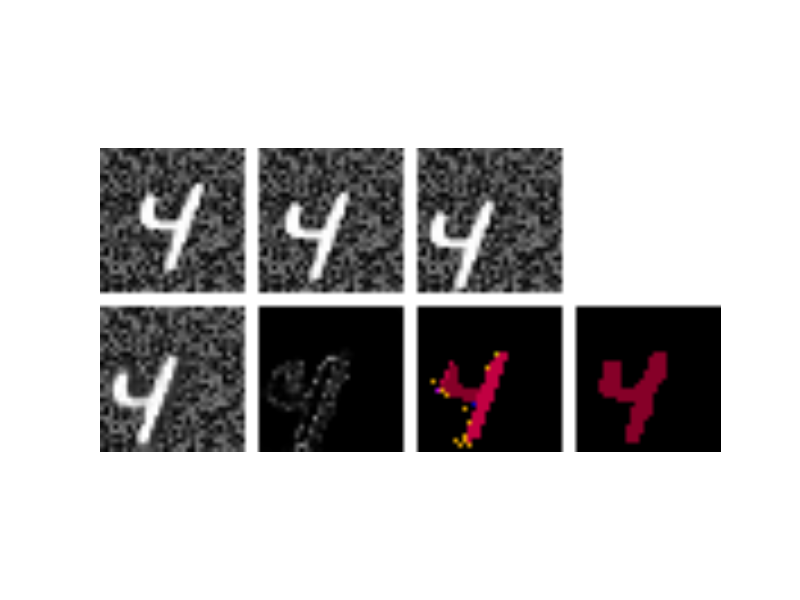
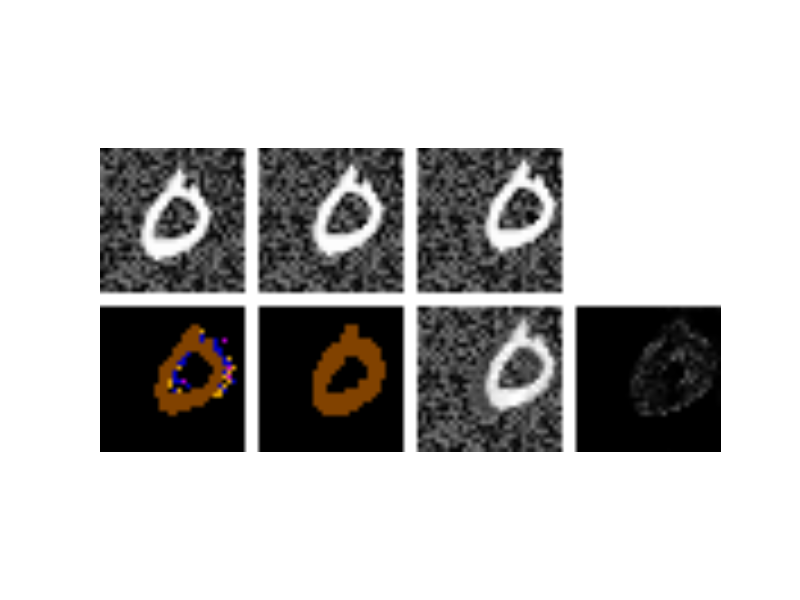
better visualization exp008

Changed region(s): [[0.125, 0.24, 0.7188, 0.78], [0.75, 0.54, 0.9062, 0.75]]

diff --git a/exp008/visualize.py b/exp008/visualize.py
@@ -3,9 +3,9 @@ import cv2
 import matplotlib.pyplot as plt
 
 
-def visualize(im1, im2, im3, pred, pred_motion, gt_motion, m_range, reverse_m_dict):
+def visualize(im1, im2, im3, pred, pred_motion, gt_motion, m_range, m_dict, reverse_m_dict):
     img_size = im1.size(2)
-    width, height = get_img_size(2, 4, img_size)
+    width, height = get_img_size(2, 5, img_size)
     img = numpy.ones((height, width, 3))
 
     im1 = im1[0].cpu().data.numpy().transpose(1, 2, 0).repeat(3, 2)
@@ -20,10 +20,6 @@ def visualize(im1, im2, im3, pred, pred_motion, gt_motion, m_range, reverse_m_di
     x1, y1, x2, y2 = get_img_coordinate(1, 3, img_size)
     img[y1:y2, x1:x2, :] = im3
 
-    pred_motion = label2flow(pred_motion[0].cpu().data.numpy().squeeze(), m_range, reverse_m_dict)
-    x1, y1, x2, y2 = get_img_coordinate(2, 1, img_size)
-    img[y1:y2, x1:x2, :] = pred_motion
-
     gt_motion = label2flow(gt_motion[0].cpu().data.numpy().squeeze(), m_range, reverse_m_dict)
     x1, y1, x2, y2 = get_img_coordinate(2, 2, img_size)
     img[y1:y2, x1:x2, :] = gt_motion
@@ -37,6 +33,17 @@ def visualize(im1, im2, im3, pred, pred_motion, gt_motion, m_range, reverse_m_di
     im_diff = numpy.abs(pred - im3)
     x1, y1, x2, y2 = get_img_coordinate(2, 4, img_size)
     img[y1:y2, x1:x2, :] = im_diff
+
+    pred_disappear = pred_motion[0].cpu().data.numpy() == len(m_dict)
+    pred_disappear = pred_disappear.transpose(1, 2, 0).repeat(3, 2)
+    x1, y1, x2, y2 = get_img_coordinate(2, 5, img_size)
+    img[y1:y2, x1:x2, :] = pred_disappear
+
+    # This line assumes disappeared pixels have motion 0, which should be changed in the future.
+    pred_motion[pred_motion == len(m_dict)] = m_dict[(0, 0)]
+    pred_motion = label2flow(pred_motion[0].cpu().data.numpy().squeeze(), m_range, reverse_m_dict)
+    x1, y1, x2, y2 = get_img_coordinate(2, 1, img_size)
+    img[y1:y2, x1:x2, :] = pred_motion
 
     plt.figure(1)
     plt.imshow(img)

diff --git a/exp008/main.py b/exp008/main.py
@@ -12,6 +12,7 @@ import matplotlib.pyplot as plt
 from learning_args import parse_args
 from data import generate_images, motion_dict, load_mnist
 from models import FullyConvNet, FullyConvResNet, UNet
+from visualize import visualize
 logging.basicConfig(format='[%(levelname)s %(asctime)s %(filename)s:%(lineno)s] %(message)s',
                             level=logging.INFO)
 
@@ -57,7 +58,7 @@ def train_supervised(args, model, images, m_dict, reverse_m_dict, m_kernel):
     return model
 
 
-def visualize(im1, im2, im3, pred, pred_motion, gt_motion, m_range, m_dict, reverse_m_dict):
+def visualize1(im1, im2, im3, pred, pred_motion, gt_motion, m_range, m_dict, reverse_m_dict):
     plt.figure(1)
     plt.subplot(2,4,1)
     plt.imshow(im1[0].cpu().data.numpy().squeeze(), cmap='gray')
